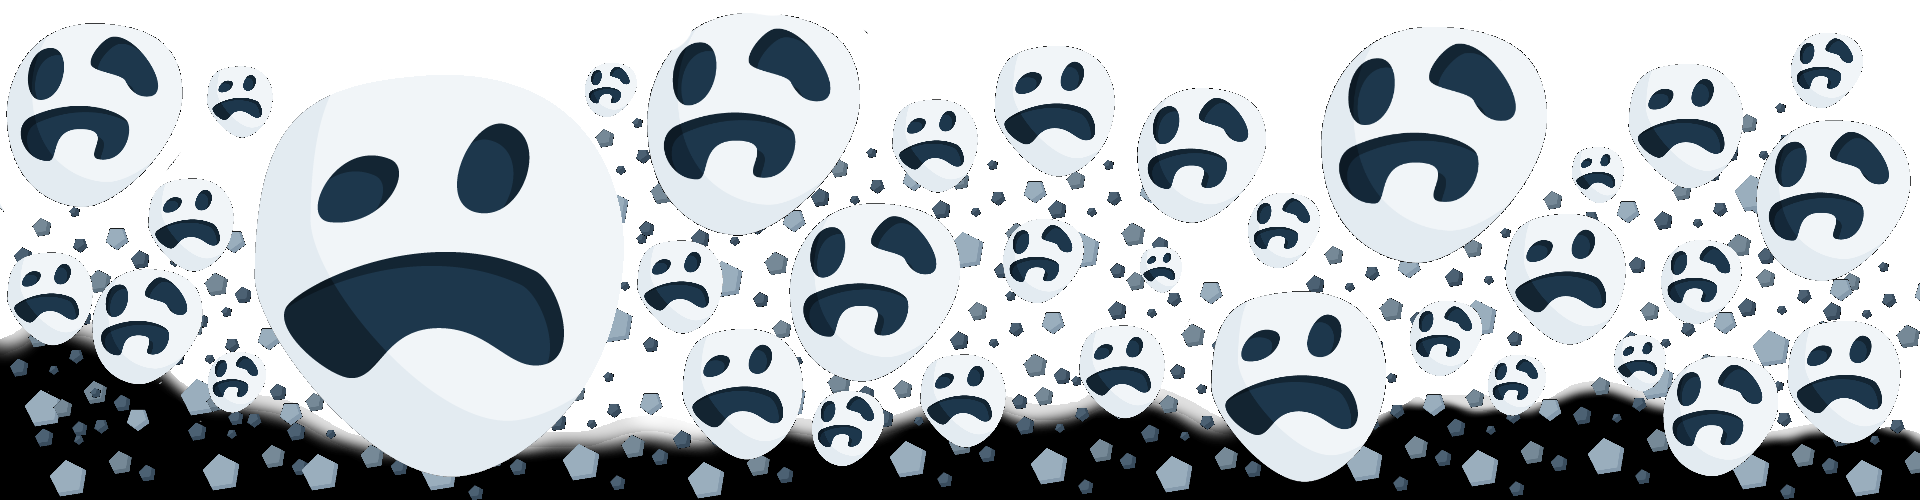
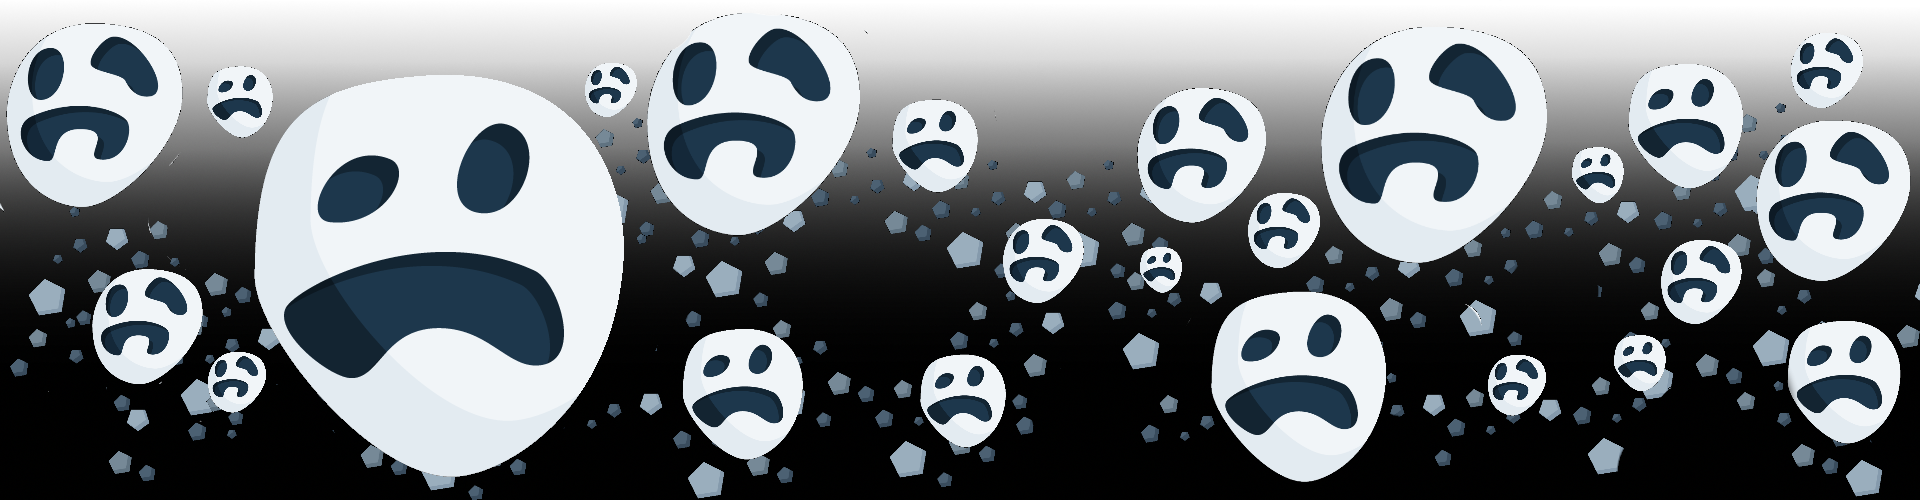
[Welcome & verticalPlateformer]
- Encore une modification de l'image de transition
- Ajout de l'image des règles (mais non implémentée)

diff --git a/src/transitions/VerticalTransition.java b/src/transitions/VerticalTransition.java
@@ -17,7 +17,7 @@ import org.newdawn.slick.state.transition.Transition;
  * 
  * This state is an enter transitions.
  * 
- * @author kevin
+ * @author amos
  */
 public class VerticalTransition implements Transition {
 	/** The renderer to use for all GL operations */
@@ -88,12 +88,6 @@ public class VerticalTransition implements Transition {
 		
 		g.translate(0,(int) (container.getHeight()-offset));
 		g.setClip(0,(int) (container.getHeight()-offset),container.getWidth(),image.getHeight());
-//		if (background != null) {
-//			Color c = g.getColor();
-//			g.setColor(background);
-//			g.fillRect(0,0,container.getWidth(),container.getHeight());
-//			g.setColor(c);
-//		}
 		GL.glPushMatrix();
 		g.drawImage(image, container.getWidth()/2-image.getWidth()/2, 0, container.getWidth()/2+image.getWidth()/2, image.getHeight(), 0, 0, image.getWidth(), image.getHeight());
 		GL.glPopMatrix();
